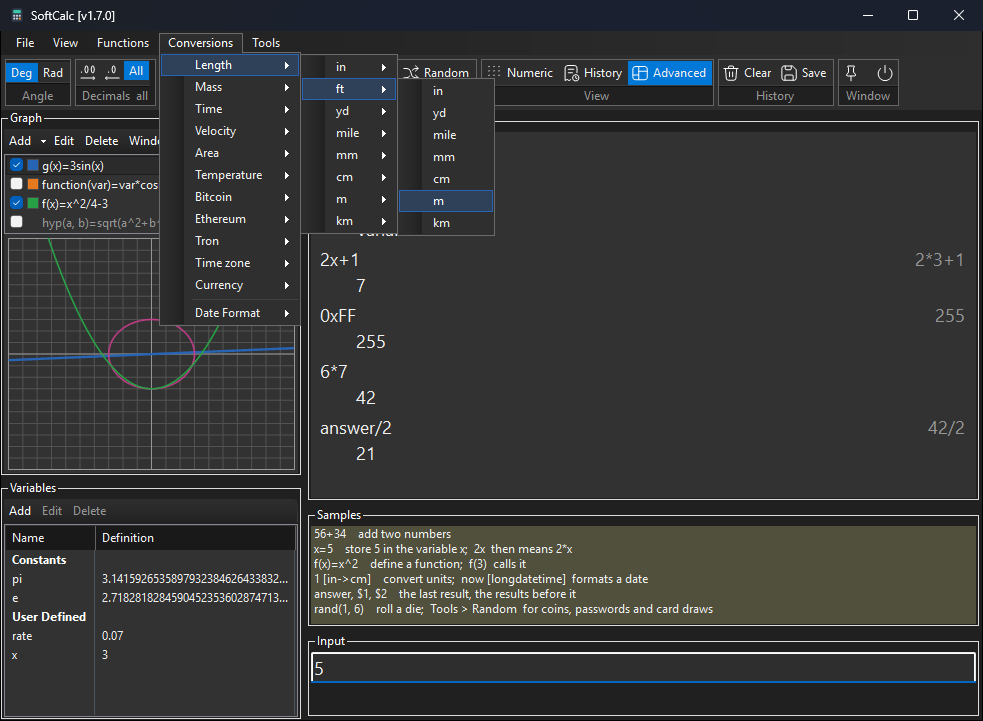
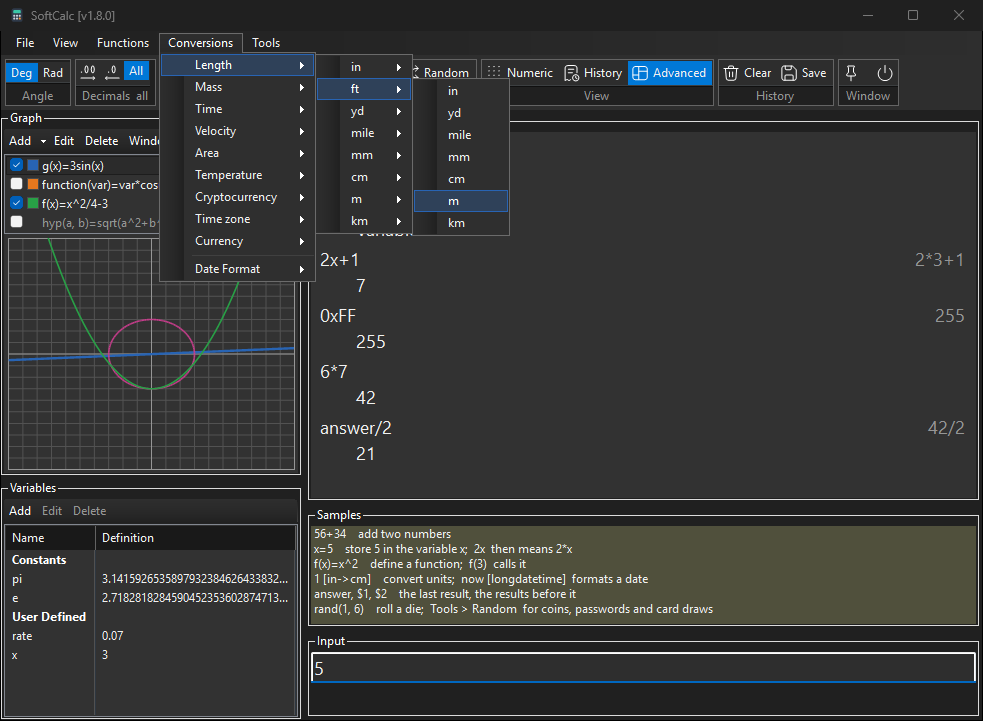
help: Lists and matrices topic
Topic 19 for desktop and web: writing lists and matrices, [ ] as list or
tag, arithmetic, making them (fill draws every cell with rand), cells,
linear algebra, statistics, History tables, accuracy. Every checked
example passes. Random and Functions point to it; the Functions and
Conversions menu pictures show the Matrix group and Cryptocurrency.

Changed region(s): [[0.1526, 0.061, 0.3967, 0.4577], [0.3967, 0.0915, 0.5188, 0.3356], [0.0305, 0.0, 0.1221, 0.0305]]

diff --git a/web/app/tests/help.test.ts b/web/app/tests/help.test.ts
@@ -62,7 +62,7 @@ describe("help for the web app", () =>
 				return readFileSync(path.join(root, "help", `${id}.md`), "utf8");
 			}
 		});
-		expect(topics.length).toBe(13);
+		expect(topics.length).toBe(14);    // 19 Lists and matrices (owner 2026-11-24)
 		for (const topic of topics)
 		{
 			expect(topic.html, topic.id).not.toMatch(/View &gt;|ribbon|Ribbon|img\/|&lt;!--|press Enter/);

diff --git a/tools/HelpShots/Program.cs b/tools/HelpShots/Program.cs
@@ -214,6 +214,14 @@ internal sealed class Shots(MainForm form, EngineSession session, string outDir,
 		await MenuShotAsync("menu-currency", "Conversions", "Currency", "From", "CHF");
 		await TypeAsync("");
 
+		// A matrix result as a table in History (matrix round 2 D)
+		foreach (string line in new[] { "A=[[4, 1], [2, 3]]", "inv(A)", "reshape(seq(1, 12), 3, 4)/7" })
+		{
+			await SubmitAsync(line);
+		}
+		var historyBox = Program.Field<Control>(form, "_historyBox");
+		Save("matrix", Crop(form, historyBox.RectangleToScreen(historyBox.ClientRectangle)));
+
 		//==================================================================
 		//  BLOCK 4 - Other windows
 		//==================================================================

diff --git a/help/19-matrices.md b/help/19-matrices.md
@@ -1,0 +1,251 @@
+# Lists and matrices
+
+A **list** is numbers in square brackets, a **matrix** is rows in
+square brackets, each row a list of the same length:
+
+```calc
+[1, 2, 3]                     => [1, 2, 3]
+[[1, 2], [3, 4]]              => [[1, 2], [3, 4]]
+[1+1, sqrt(9), 2^3]           => [2, 3, 8]
+```
+
+Items may be any expression. A list, a matrix or a result holding one
+can go in a variable, `$n`, `answer` and the `.pcf` file, like a number.
+Lists and matrices are not available in RPN.
+
+## [ ] for lists, [ ] for tags
+
+Square brackets also hold conversion tags (`1 [ft->in]`). Which one a
+`[` is depends on what comes before it:
+
+- right after a value (a number, a name, `)` or `]`) it is a **tag**:
+  `5 [ft->in]`, `x [c->f]`;
+- where a value starts (at the start, or after an operator, `(`, `,`
+  or `=`) it is a **list**: `[1, 2]`, `2*[1, 2]`, `A=[[1, 2], [3, 4]]`.
+
+So write `*` before a list, and use `at()` for a cell:
+
+```calc
+2*[1, 2]                      => [2, 4]
+2[1, 2]                       => ERROR:Write * before a list (2*[1, 2]); at(A, 1) takes a cell
+```
+
+The hint line under Input says which one an open `[` is.
+
+## Arithmetic
+
+A list and a number work cell by cell, with any operator:
+
+```calc
+2*[1, 2, 3]                   => [2, 4, 6]
+[1, 2, 3]+10                  => [11, 12, 13]
+[1, 2, 3]^2                   => [1, 4, 9]
+[1, 2]+[3, 4]                 => [4, 6]
+```
+
+Two matrices (or lists) of one size add and subtract cell by cell; `*`
+is the matrix product; `^` takes a whole power, `^-1` is the inverse:
+
+```calc
+A=[[4, 1], [2, 3]]            => Variable Added
+B=[[1, 0], [2, 1]]            => Variable Added
+A+B                           => [[5, 1], [4, 4]]
+A*B                           => [[6, 1], [8, 3]]
+A^2                           => [[18, 7], [14, 11]]
+A^-1                          => [[0.3, -0.1], [-0.2, 0.4]]
+A^0                           => [[1, 0], [0, 1]]
+```
+
+A list beside a matrix fits as a row on the left and as a column on
+the right, and the answer is a list:
+
+```calc
+A*[1, 1]                      => [5, 5]
+[1, 1]*A                      => [6, 4]
+```
+
+There is no `A/B` or `2/A`: write `A*inv(B)`. Two lists do not multiply
+with `*`; use `dot()`.
+
+## Making lists and matrices
+
+| you type | you get |
+|---|---|
+| `identity(n)` | the n x n identity matrix |
+| `zeros(n)`, `ones(n)` | a list of n zeros or ones |
+| `zeros(rows, cols)`, `ones(rows, cols)` | a matrix of zeros or ones |
+| `fill(n, value)`, `fill(rows, cols, value)` | a list or a matrix of one value |
+| `fill(rows, cols, list)` | the list as every row |
+| `diag(list)` | a matrix with the list down its diagonal |
+| `seq(from, to, [step])` | from, from+step, ... up to to |
+| `reshape(list, rows, cols)` | the numbers, row by row, as a matrix |
+| `randm(rows, cols, [from, to])` | random cells, as `rand()` draws them |
+
+```calc
+identity(3)                   => [[1, 0, 0], [0, 1, 0], [0, 0, 1]]
+zeros(2, 3)                   => [[0, 0, 0], [0, 0, 0]]
+fill(2, 3, 7)                 => [[7, 7, 7], [7, 7, 7]]
+fill(2, 3, [1, 2, 3])         => [[1, 2, 3], [1, 2, 3]]
+diag([1, 2, 3])               => [[1, 0, 0], [0, 2, 0], [0, 0, 3]]
+seq(1, 5)                     => [1, 2, 3, 4, 5]
+seq(0, 1, 0.25)               => [0, 0.25, 0.5, 0.75, 1]
+seq(10, 1, 3)                 => [10, 7, 4, 1]
+reshape(seq(1, 6), 2, 3)      => [[1, 2, 3], [4, 5, 6]]
+```
+
+`seq` steps toward `to` whatever the sign of the step, like a run of
+numbers in a deck (`[10,1,3]` in the Random window). In a calculation
+`[1, 100]` is a list of two numbers; the run 1 to 100 is `seq(1, 100)`.
+
+### Random lists and matrices
+
+`randm` draws every cell as `rand()` does. In `fill`, a value that
+calls `rand`, a shaped rand or `card` is **drawn again for every cell**
+(for every row when it gives a list); the hint line says so while you
+type it. `rands(seed)` makes them repeat:
+
+```calc
+rands(3)                      => Seed 3
+randm(2, 3, 1, 6)             => [[4, 5, 3], [6, 2, 1]]
+fill(2, 4, rand(1, 6))        => [[6, 3, 2, 4], [5, 6, 5, 1]]
+fill(3, round(randbeta(4, 4, 1, 10)))
+reshape(card("Dice", 6, 1), 2, 3)
+```
+
+The last line deals a deck named Dice with cards 1 to 6 into a 2 x 3
+matrix, no card twice.
+
+## Size and cells
+
+Cells count from 1: row first, then column.
+
+```calc
+rows(A)                       => 2
+cols([1, 2, 3])               => 3
+len(A)                        => 4
+at(A, 2, 1)                   => 2
+at([5, 6, 7], 3)              => 7
+row(A, 2)                     => [2, 3]
+col(A, 1)                     => [4, 2]
+```
+
+`len` counts every cell; `rows` of a list is 1.
+
+## Linear algebra
+
+```calc
+transpose(A)                  => [[4, 2], [1, 3]]
+det(A)                        => 10
+inv(A)                        => [[0.3, -0.1], [-0.2, 0.4]]
+trace(A)                      => 7
+rank([[1, 2], [2, 4]])        => 1
+solve(A, [9, 8])              => [1.9, 1.4]
+eig(A)                        => [5, 2]
+dot([1, 2, 3], [4, 5, 6])     => 32
+cross([1, 0, 0], [0, 1, 0])   => [0, 0, 1]
+norm([3, 4])                  => 5
+```
+
+- `solve(A, b)` gives x with `A*x = b`; b is a list (the answer is a
+  list) or a matrix of columns.
+- `eig` gives the eigenvalues, largest real part first; they may be
+  complex (`eig([[0, -1], [1, 0]])` is `[1i, -1i]`).
+- `norm` of a list is its length; of a matrix, the same over every cell.
+- `det`, `inv`, `solve` and `^` take at most 50 x 50, `eig` 20 x 20.
+
+## Statistics and lists
+
+These take numbers and lists mixed, and use every cell:
+
+```calc
+sum([1, 2, 3], 4)             => 10
+mean([2, 4, 9])               => 5
+median([3, 1, 2, 10])         => 2.5
+prod([1, 2, 3, 4])            => 24
+min([3, 1, 2])                => 1
+max(3, 9, 2)                  => 9
+count([4, 5], 6)              => 3
+stdevp([2, 4, 4, 4, 5, 5, 7, 9]) => 2
+variancep([1, 2, 3, 4])       => 1.25
+variance(1, 2, 3, 4)          => 1.6666666666666666666666666666667
+```
+
+`stdev` and `variance` are for a sample (dividing by n - 1, as Excel's
+STDEV.S); `stdevp` and `variancep` for a whole population (n).
+
+These take one list:
+
+```calc
+sort([3, 1, 2])               => [1, 2, 3]
+reverse([1, 2, 3])            => [3, 2, 1]
+cumsum([1, 2, 3, 4])          => [1, 3, 6, 10]
+```
+
+## Functions and conversions on every cell
+
+A function of one number, and a unit, currency or coin tag, work on
+each cell:
+
+```calc
+sqrt([4, 9, 16])              => [2, 3, 4]
+round([1.234, 5.678], 1)      => [1.2, 5.7]
+[1, 2] [m->cm]                => [100, 200]
+[[0, 100], [37, -40]] [c->f]  => [[32, 212], [98.6, -40]]
+```
+
+Date formats and time zones take one date, not a list.
+
+## In History
+
+A matrix result shows as a table, its size beside it. While Decimal
+Places is All, the table rounds cells to 6 digits; the result itself
+keeps every digit, and that is what a click, Insert Result, `$n` and
+Copy Result use. At most 10 rows and 10 columns show; `…` and `⋮` mark
+the rest. A list stays on one line.
+
+<!-- desktop -->
+![A matrix as a table in History](img/matrix.light.png)
+
+Right-click a matrix result for **Copy as Table**: every cell in full,
+tab-separated, ready to paste into a spreadsheet. In Variables, point
+at a matrix variable to see its table. At a large text size the table
+shows fewer than 10 rows (a History line is at most 255 pixels high).
+<!-- /desktop -->
+
+<!-- web -->
+A wide table scrolls sideways. Hold a matrix result for **Copy as
+table**: every cell in full, tab-separated, ready to paste into a
+spreadsheet.
+<!-- /web -->
+
+## Accuracy
+
+A matrix whose det is 0 has no inverse. Because a decimal such as
+`0.316` is not exact in binary, a det smaller than the shown precision
+allows counts as 0:
+
+```calc
+det([[0.316, 1.2], [0.632, 2.4]])   => 0
+inv([[1, 2], [2, 4]])         => ERROR:The matrix has no inverse (its det is 0)
+```
+
+A matrix close to det 0 shows every digit, with a note beside it such
+as `about 10 of 32 digits may be off`. *Error messages* says more, and
+lists the errors of lists and matrices.
+
+## The functions, by group
+
+<!-- desktop -->
+Functions > Matrix lists them all.
+<!-- /desktop -->
+<!-- web -->
+func > Matrix lists them all.
+<!-- /web -->
+
+| group | functions |
+|---|---|
+| make | `identity` `zeros` `ones` `fill` `diag` `seq` `reshape` `randm` |
+| size and cells | `rows` `cols` `len` `at` `row` `col` |
+| linear algebra | `transpose` `det` `inv` `trace` `rank` `solve` `eig` `dot` `cross` `norm` |
+| statistics | `sum` `mean` `median` `prod` `min` `max` `count` `stdev` `stdevp` `variance` `variancep` |
+| lists | `sort` `reverse` `cumsum` |

diff --git a/design/TODO.md b/design/TODO.md
@@ -606,8 +606,10 @@ ends 1:1, the drag insert line is visible enough on dark.
         25 functions, Functions > Matrix, hints; checked against SymPy
         (1388 cases), which found and fixed det 0 with decimal cells.
         Help 16-errors has the list/matrix errors and the accuracy notes.
-  - [ ] Help topic "Matrices" (how to write them, the functions), when
-        the owner says the matrix topic is done.
+  - [x] Help topic 19 "Lists and matrices" (2026-11-24, owner: matrix
+        topic done), shared by desktop and web; Random and Functions point
+        to it; pictures matrix.*.png, menu-functions and menu-conversions
+        (Matrix group, Cryptocurrency) remade.
   - [x] Round 2 A-C (2026-11-24): unit tags on a list; median, stdev,
         stdevp, variance, variancep, norm, rank, eig; the "digits may be
         off" note.

diff --git a/help/17-random.md b/help/17-random.md
@@ -52,6 +52,10 @@ rand(1, 6)      => 4
 A seed is a number (`42`, `-7.5`). A short seed is easy to guess, so a
 seed is for repeating draws, never for secrets.
 
+Many draws at once go in a list or a matrix: `randm(3, 3, 1, 6)` rolls
+nine dice, and `fill(2, 3, rand(1, 6))` draws every cell again (see
+*Lists and matrices*).
+
 ## Numbers in a shape
 
 `rand()` gives every value the same chance. These give some values

diff --git a/web/app/help/17-random.md b/web/app/help/17-random.md
@@ -6,6 +6,8 @@ options are. Done, or the phone's Back, goes back to the calculator.
 
 In Input, `rand()` draws too: `rand(1, 6)` rolls a die, and
 `card("Months")` draws a card from a deck (see *Functions*).
+`randm(3, 3, 1, 6)` rolls nine dice into a matrix, and
+`fill(2, 3, rand(1, 6))` draws every cell again (see *Lists and matrices*).
 
 ## Simple
 

diff --git a/help/03-functions.md b/help/03-functions.md
@@ -48,6 +48,7 @@ log10(1000)           => 3
 | Two's Complement | `twos` `signed` |
 | Rounding | `round` `ceil` `floor` |
 | Random | `rand` `rands` `randbeta` `randtri` `randexp` `randpeaks` `card` (section *Random*) |
+| Matrix | lists and matrices: `det` `inv` `solve` `sum` `mean` `fill` `seq` and more (section *Lists and matrices*) |
 
 ## Angles
 
